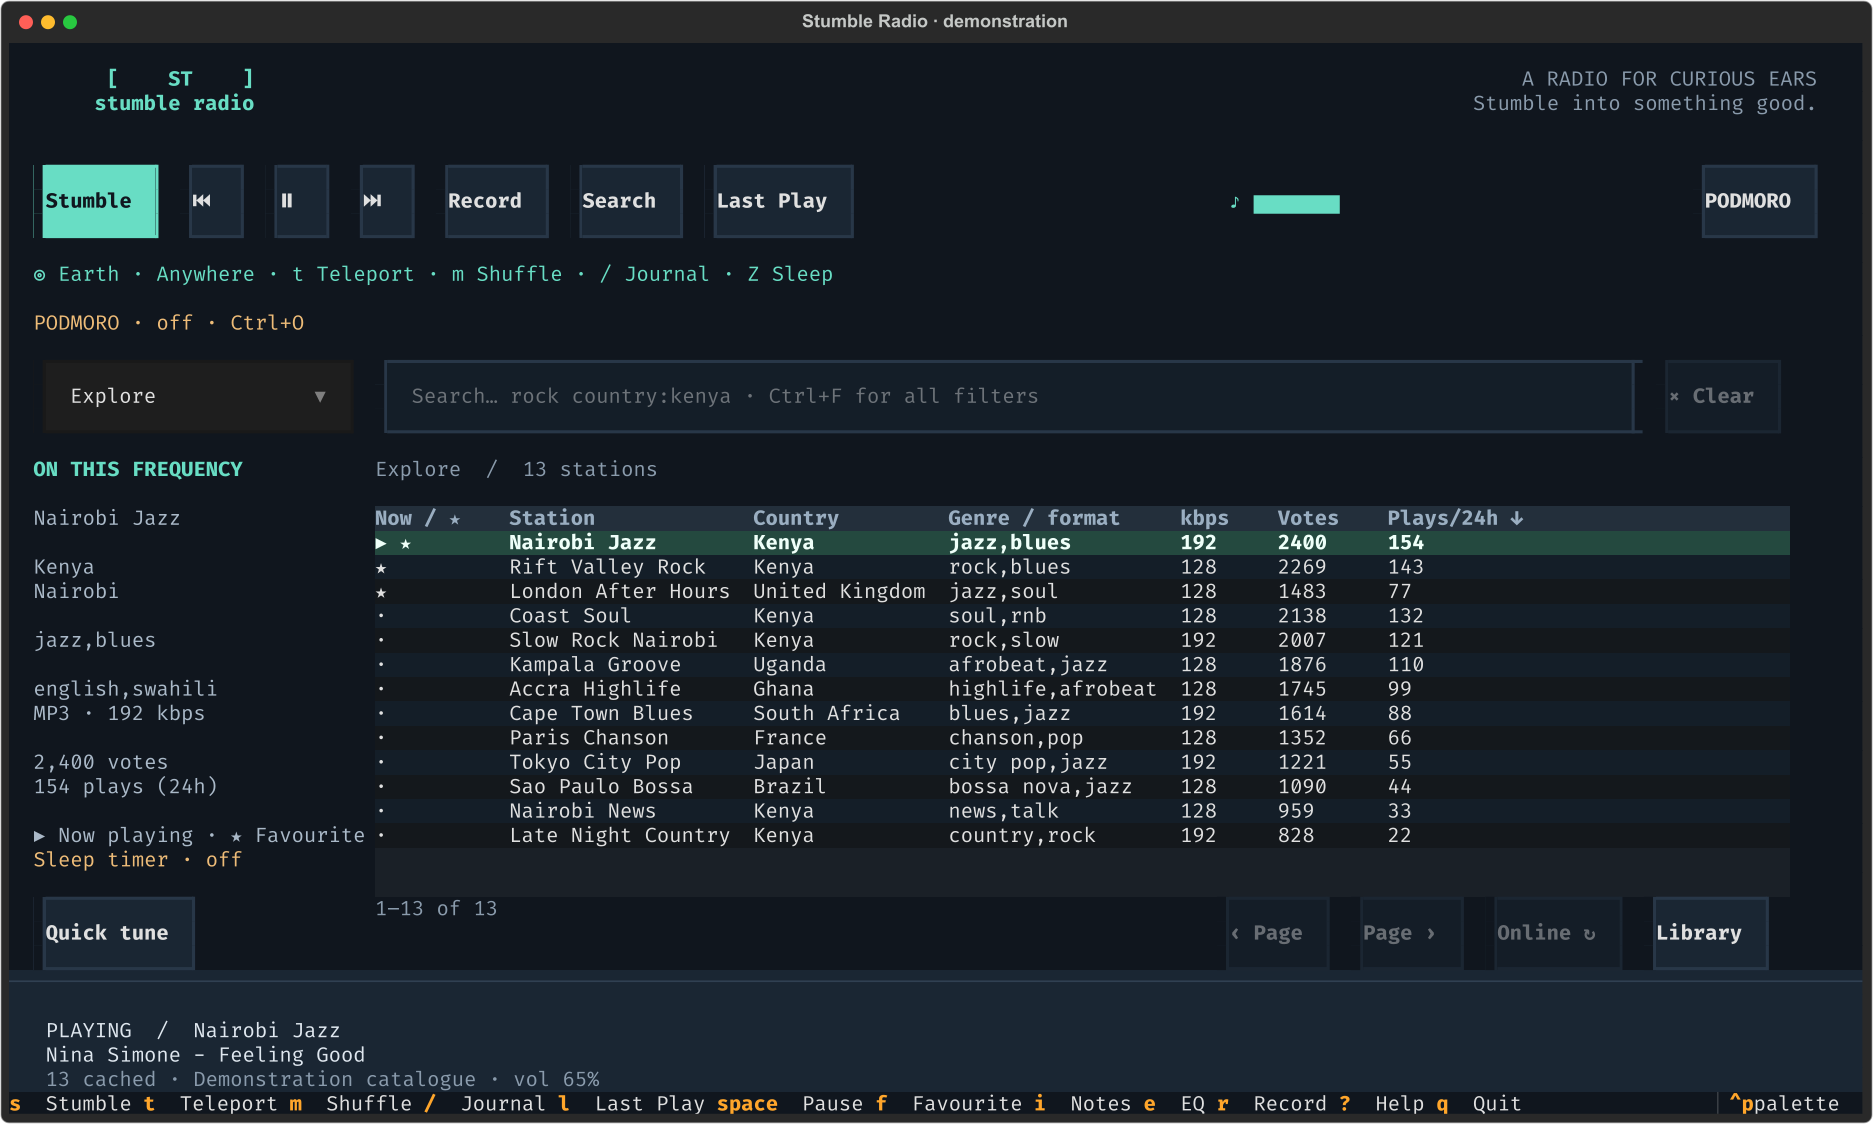
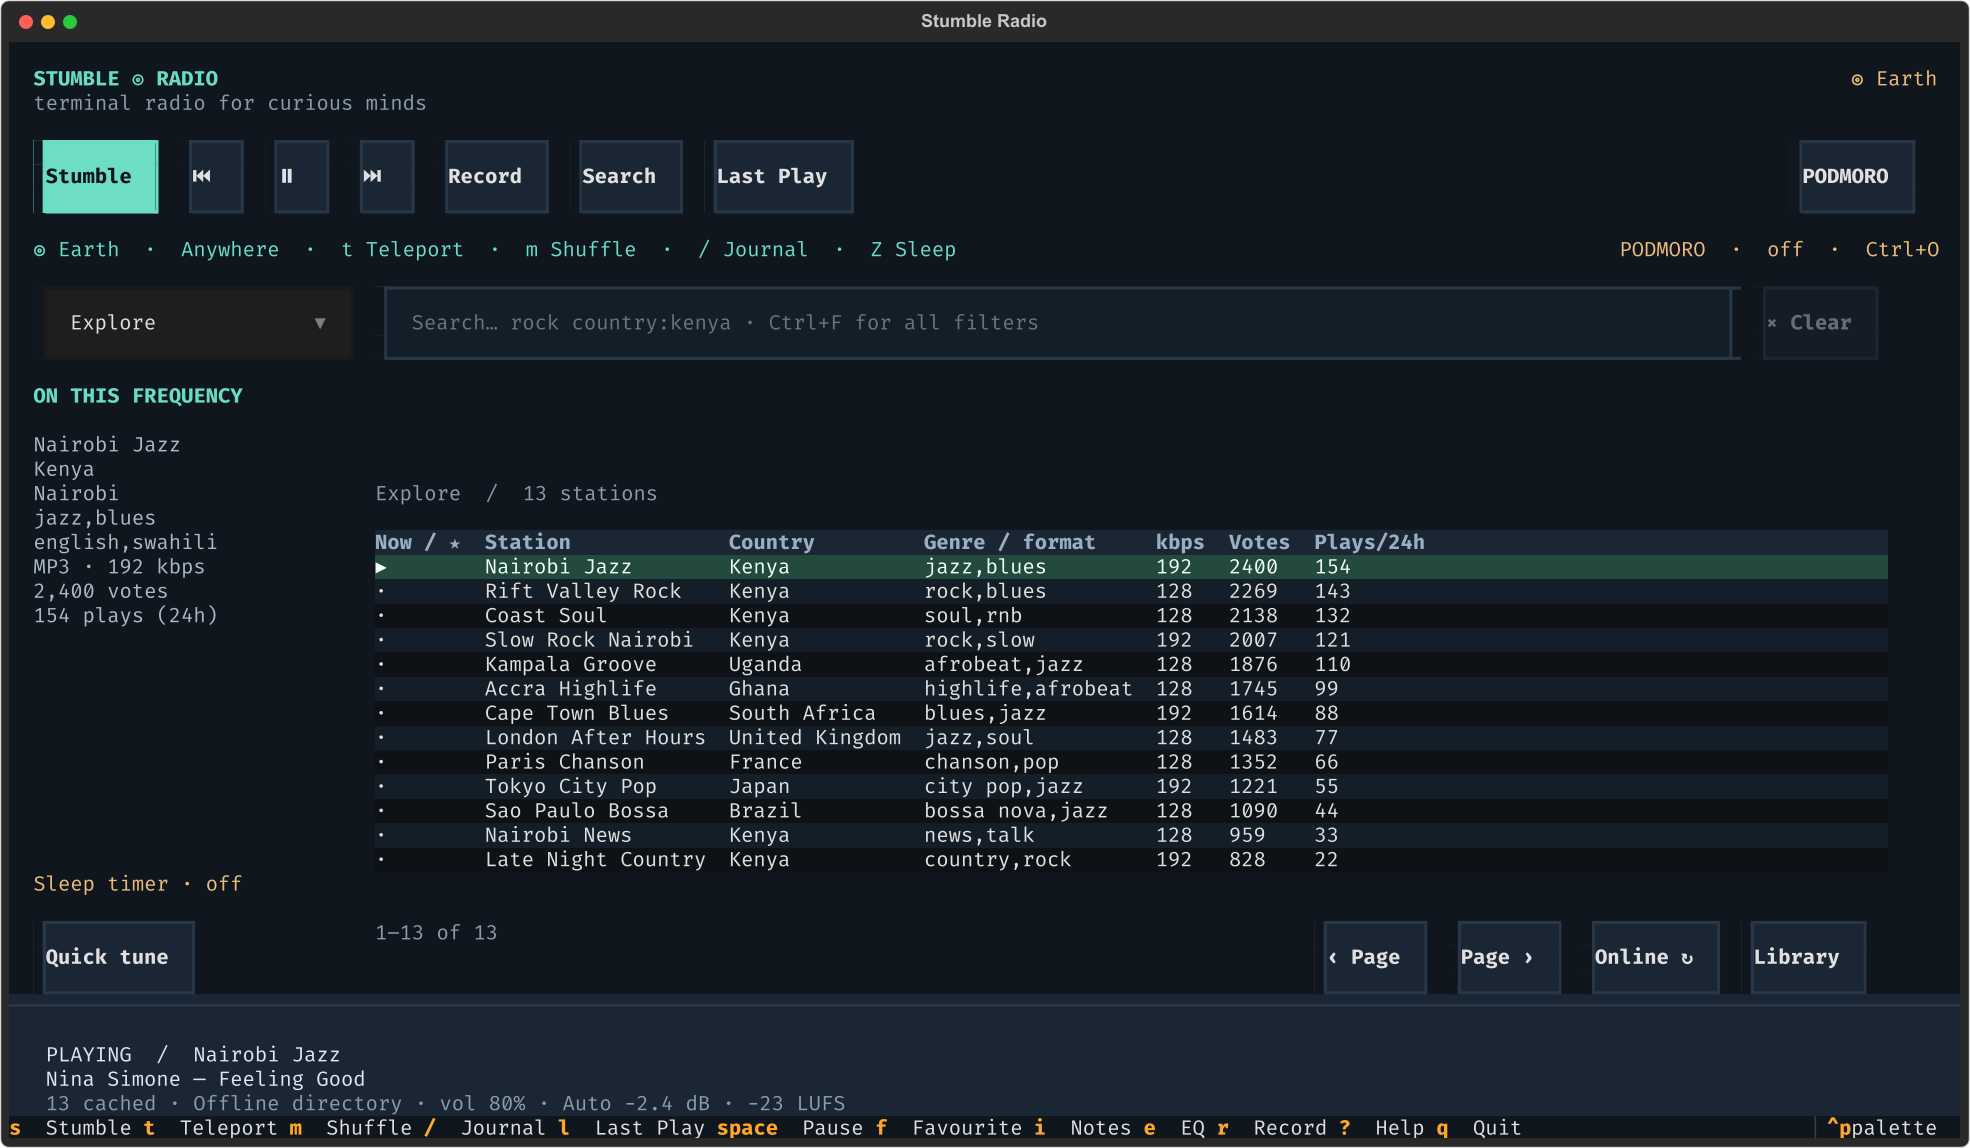
docs(playback): add screenshots for equalizer and station notes dialogs
Add equalizer.png and station-notes.png to illustrate their respective
features in the documentation. Update player.png and widen the EQ bypass
checkbox to 16 characters for better fit.

diff --git a/docs/playback.md b/docs/playback.md
@@ -55,6 +55,8 @@ main search or advanced filters to search the entire catalogue.
 Press **e** to open the equalizer. One saved setup applies to
 all stations, including after changing stations, reconnecting, or restarting.
 
+![Equalizer and gain dialog showing Auto level enabled, flat five-band controls, and save options](images/equalizer.png)
+
 - Adjust **60 Hz, 250 Hz, 1 kHz, 4 kHz, and 12 kHz** from **−12 to +12 dB**.
 - **Gain / boost** adds **0 to +12 dB**, separately from the normal volume control.
 - **Auto level** is enabled by default and balances stations toward a shared loudness target. Turn it off in the equalizer when you prefer station levels to vary. With it enabled,

diff --git a/docs/library.md b/docs/library.md
@@ -47,6 +47,9 @@ Quick tune searches the current page. Use the [main search bar](search.md) to se
 
 Right-click a station to open its notes, or highlight it and press **i**. **Enter** on the station list
 still plays the highlighted station; opening notes leaves playback running.
+
+![Station notes dialog with searchable mood notes and personal tags for Nairobi Jazz](images/station-notes.png)
+
 The right-click tooltip appears for the first three stations you tune after each
 launch, then stays hidden for the rest of that session. Reconnecting the same
 station does not count toward this limit.
